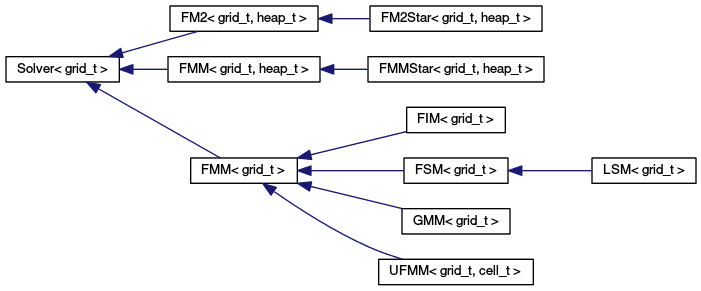
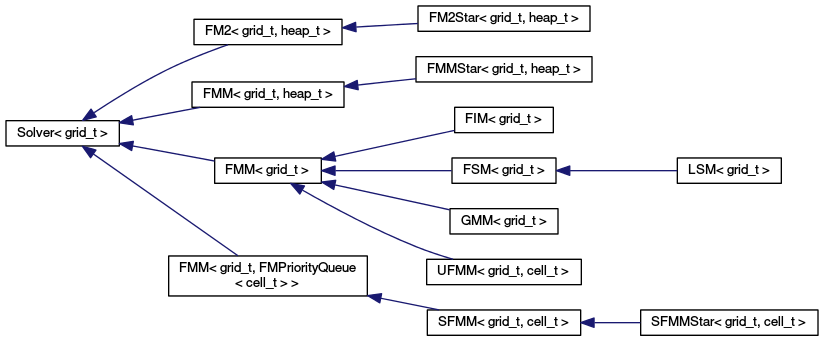
Some tweaks and creating SFMM class

diff --git a/benchmark/benchmarkcfg.hpp b/benchmark/benchmarkcfg.hpp
@@ -28,7 +28,9 @@
 #include "../io/maploader.hpp"
 
 #include "../fmm/fmm.hpp"
+#include "../fmm/sfmm.hpp"
 #include "../fmm/fmmstar.hpp"
+#include "../fmm/sfmmstar.hpp"
 #include "../fmm/fim.hpp"
 #include "../fmm/gmm.hpp"
 #include "../fmm/ufmm.hpp"
@@ -149,9 +151,9 @@ class BenchmarkCFG {
                     else if (name == "fmmfibstar")
                         solver = new FMMStar<grid_t,  FMFibHeap<cell_t> >("FMMFib*");
                     else if (name == "sfmm")
-                        solver = new FMM<grid_t, FMPriorityQueue<cell_t> >("SFMM");
+                        solver = new SFMM<grid_t>("SFMM");
                     else if (name == "sfmmstar")
-                        solver = new FMMStar<grid_t, FMPriorityQueue<cell_t>>("SFMM*");
+                        solver = new SFMMStar<grid_t>("SFMM*");
                     else if (name == "gmm")
                         solver = new GMM<grid_t>();
                     else if (name == "fim")
@@ -198,15 +200,15 @@ class BenchmarkCFG {
                     }
                     // SFMM and SFMM*
                     else if (name == "sfmm")
-                        solver = new FMM<grid_t, FMPriorityQueue<cell_t> >(ctorParams_[i].c_str());
+                        solver = new SFMM<grid_t, cell_t>(ctorParams_[i].c_str());
                     else if (name == "sfmmstar") {
                         if (p.size() == 1)
-                            solver = new FMMStar<grid_t, FMPriorityQueue<cell_t>>(p[0].c_str());
+                            solver = new SFMMStar<grid_t, cell_t>(p[0].c_str());
                         else if (p.size() == 2) {
                             if (p[1] == "TIME")
-                                solver = new FMMStar<grid_t, FMPriorityQueue<cell_t>>(p[0].c_str(), TIME);
+                                solver = new SFMMStar<grid_t, cell_t>(p[0].c_str(), TIME);
                             else if (p[1] == "DISTANCE")
-                                solver = new FMMStar<grid_t, FMPriorityQueue<cell_t>>(p[0].c_str(), DISTANCE);
+                                solver = new SFMMStar<grid_t, cell_t>(p[0].c_str(), DISTANCE);
                         }
                     }
                     // GMM

diff --git a/fmm/sfmm.hpp b/fmm/sfmm.hpp
@@ -1,0 +1,54 @@
+/*! \class SFMM
+    \brief Implements the Simplified Fast Marching Method, encapsulating FMM with a priority queue.
+
+    It uses as a main container the nDGridMap class. The nDGridMap type T
+    has to be an FMCell or something inherited from it.
+
+    The grid is assumed to be squared, that is Delta(x) = Delta(y) = leafsize_
+
+    @par External documentation:
+        SFMM:
+          M.W. Jones, J.A. Baerentzen, M. Sramek, 3D Distance Fields: A Survey of Techniques and Applications, IEEE Transactions on Visualization and Computer Graphics, Vol. 12, No. 4, 2006. DOI <a href=http://dx.doi.org/10.1109/TVCG.2006.56">110.1109/TVCG.2006.56</a><br>
+          <a href="http://ieeexplore.ieee.org/xpl/articleDetails.jsp?arnumber=1634323">[PDF]</a>
+
+    Copyright (C) 2014 Javier V. Gomez
+    www.javiervgomez.com
+
+    This program is free software: you can redistribute it and/or modify
+    it under the terms of the GNU General Public License as published by
+    the Free Software Foundation, either version 3 of the License, or
+    (at your option) any later version.
+    This program is distributed in the hope that it will be useful,
+    but WITHOUT ANY WARRANTY; without even the implied warranty of
+    MERCHANTABILITY or FITNESS FOR A PARTICULAR PURPOSE. See the
+    GNU General Public License for more details.
+    You should have received a copy of the GNU General Public License
+    along with this program. If not, see <http://www.gnu.org/licenses/>.
+*/
+
+#ifndef SFMM_HPP_
+#define SFMM_HPP_
+
+#include <iostream>
+#include <cmath>
+#include <algorithm>
+#include <numeric>
+#include <fstream>
+#include <array>
+
+#include "fmm.hpp"
+
+#include "fmdata/fmcell.h"
+#include "fmdata/fmpriorityqueue.hpp"
+
+template < class grid_t, class cell_t = FMCell>  class SFMM : public FMM<grid_t, FMPriorityQueue<cell_t>> {
+
+    /** \brief Shorthand for base solver. */
+    typedef FMM<grid_t, FMPriorityQueue<cell_t>> FMMBase;
+
+    public:
+        SFMM(HeurStrategy h = NOHEUR) : FMMBase("SFMM", h) {}
+        SFMM(const char * name, HeurStrategy h = NOHEUR) : FMMBase(name, h){}
+};
+
+#endif /* SFMM_HPP_*/

diff --git a/fmm/sfmmstar.hpp b/fmm/sfmmstar.hpp
@@ -1,0 +1,47 @@
+/*! \class SFMMStarStar
+    \brief Implements the Simplified Fast Marching Method, encapsulating FMM with a priority queue.
+
+    It uses as a main container the nDGridMap class. The nDGridMap type T
+    has to be an FMCell or something inherited from it.
+
+    The grid is assumed to be squared, that is Delta(x) = Delta(y) = leafsize_
+
+    @par External documentation:
+        SFMMStar:
+          M.W. Jones, J.A. Baerentzen, M. Sramek, 3D Distance Fields: A Survey of Techniques and Applications, IEEE Transactions on Visualization and Computer Graphics, Vol. 12, No. 4, 2006. DOI <a href=http://dx.doi.org/10.1109/TVCG.2006.56">110.1109/TVCG.2006.56</a><br>
+          <a href="http://ieeexplore.ieee.org/xpl/articleDetails.jsp?arnumber=1634323">[PDF]</a>
+
+    Copyright (C) 2014 Javier V. Gomez
+    www.javiervgomez.com
+
+    This program is free software: you can redistribute it and/or modify
+    it under the terms of the GNU General Public License as published by
+    the Free Software Foundation, either version 3 of the License, or
+    (at your option) any later version.
+    This program is distributed in the hope that it will be useful,
+    but WITHOUT ANY WARRANTY; without even the implied warranty of
+    MERCHANTABILITY or FITNESS FOR A PARTICULAR PURPOSE. See the
+    GNU General Public License for more details.
+    You should have received a copy of the GNU General Public License
+    along with this program. If not, see <http://www.gnu.org/licenses/>.
+*/
+
+#ifndef SFMMSTAR_HPP_
+#define SFMMSTAR_HPP_
+
+#include <iostream>
+#include <cmath>
+#include <algorithm>
+#include <numeric>
+#include <fstream>
+#include <array>
+
+#include "sfmm.hpp"
+
+template < class grid_t, class cell_t = FMCell>  class SFMMStar : public SFMM<grid_t, cell_t> {
+    public:
+        SFMMStar(HeurStrategy h = TIME) : SFMM<grid_t, cell_t>("SFMM*", h) {}
+        SFMMStar(const char * name, HeurStrategy h = TIME) : SFMM<grid_t, cell_t>(name, h){}
+};
+
+#endif /* SFMMSTAR_HPP_*/

diff --git a/examples/test_fmm.cpp b/examples/test_fmm.cpp
@@ -7,6 +7,8 @@
 #include "../ndgridmap/ndgridmap.hpp"
 
 #include "../fmm/fmm.hpp"
+#include "../fmm/sfmm.hpp"
+#include "../fmm/sfmmstar.hpp"
 #include "../fmm/fmmstar.hpp"
 #include "../fmm/fmdata/fmfibheap.hpp"
 #include "../fmm/fmdata/fmpriorityqueue.hpp"
@@ -40,9 +42,9 @@ int main()
     solvers.push_back(new FMM<FMGrid2D, FMFibHeap<FMCell> >("FMFib"));
     solvers.push_back(new FMMStar<FMGrid2D, FMFibHeap<FMCell> >("FMM*Fib"));
     solvers.push_back(new FMMStar<FMGrid2D, FMFibHeap<FMCell> >("FMM*Fib_Dist", DISTANCE));
-    solvers.push_back(new FMM<FMGrid2D, FMPriorityQueue<FMCell> >("SFMM"));
-    solvers.push_back(new FMMStar<FMGrid2D, FMPriorityQueue<FMCell> >("SFMM*"));
-    solvers.push_back(new FMMStar<FMGrid2D, FMPriorityQueue<FMCell> >("SFMM*_Dist", DISTANCE));
+    solvers.push_back(new SFMM<FMGrid2D>);
+    solvers.push_back(new SFMMStar<FMGrid2D>);
+    solvers.push_back(new SFMMStar<FMGrid2D>("SFMM*_Dist", DISTANCE));
     solvers.push_back(new GMM<FMGrid2D>);
     solvers.push_back(new FIM<FMGrid2D>);
     solvers.push_back(new UFMM<FMGrid2D>);
@@ -65,7 +67,7 @@ int main()
     // Showing different type conversions methodologies. Solver names could be compared
     // but it is less reliable since they are user-defined.
     // Direct cast
-    FMM<FMGrid2D>* FMMtest = dynamic_cast< FMM<FMGrid2D>* >(solvers[6]);
+    /*FMM<FMGrid2D>* FMMtest = dynamic_cast< FMM<FMGrid2D>* >(solvers[6]);
     if (FMMtest)
         std::cout << "Solver type SFMM" <<'\n';
     else
@@ -81,7 +83,7 @@ int main()
     // solvers[6]->setHeuristics(true) would not compile since there is not a Solver::setHeuristics
     solvers[6]->as< FMM<FMGrid2D, FMPriorityQueue<FMCell>> >()->setHeuristics(HeurStrategy::DISTANCE);
     std::cout << solvers[6]->as< FMM<FMGrid2D, FMPriorityQueue<FMCell>> >()->getHeuristics() << '\n';
-
+*/
     // Preventing memory leaks.
     for (auto & s : solvers)
         delete s;

diff --git a/examples/test_fmm_benchmark.cpp b/examples/test_fmm_benchmark.cpp
@@ -7,7 +7,9 @@
 #include "../ndgridmap/ndgridmap.hpp"
 
 #include "../fmm/fmm.hpp"
+#include "../fmm/sfmm.hpp"
 #include "../fmm/fmmstar.hpp"
+#include "../fmm/sfmmstar.hpp"
 #include "../fmm/fmdata/fmfibheap.hpp"
 #include "../fmm/fmdata/fmpriorityqueue.hpp"
 #include "../fmm/fim.hpp"
@@ -60,9 +62,9 @@ int main()
     benchmark.addSolver(new FMM<FMGrid2D, FMFibHeap<FMCell> >("FMFib"));
     benchmark.addSolver(new FMMStar<FMGrid2D, FMFibHeap<FMCell> >("FMM*Fib"));
     benchmark.addSolver(new FMMStar<FMGrid2D, FMFibHeap<FMCell> >("FMM*Fib_Dist", DISTANCE));
-    benchmark.addSolver(new FMM<FMGrid2D, FMPriorityQueue<FMCell> >("SFMM"));
-    benchmark.addSolver(new FMMStar<FMGrid2D, FMPriorityQueue<FMCell> >("SFMM*"));
-    benchmark.addSolver(new FMMStar<FMGrid2D, FMPriorityQueue<FMCell> >("SFMM*_Dist", DISTANCE));
+    benchmark.addSolver(new SFMM<FMGrid2D>);
+    benchmark.addSolver(new SFMMStar<FMGrid2D>);
+    benchmark.addSolver(new SFMMStar<FMGrid2D>("SFMM*_Dist", DISTANCE));
     benchmark.addSolver(new GMM<FMGrid2D>);
     benchmark.addSolver(new FIM<FMGrid2D>);
     benchmark.addSolver(new UFMM<FMGrid2D>);

diff --git a/fmm/lsm.hpp b/fmm/lsm.hpp
@@ -7,8 +7,9 @@
     The grid is assumed to be squared, that is Delta(x) = Delta(y) = leafsize_
 
     @par External documentation:
-        H. Zhao, A fast sweeping method for Eikonal equations, Math. Comp. 74 (2005), 603-627.
-        <a href="http://www.ams.org/journals/mcom/2005-74-250/S0025-5718-04-01678-3/S0025-5718-04-01678-3.pdf">[PDF]</a>
+        S. Bak, J. McLaughlin, D. Renzi, Some Improvements for the Fast Sweeping Method,
+        SIAM J. Sci. Comput., 32(5), 2853–2874.
+        <a href="http://epubs.siam.org/doi/abs/10.1137/090749645">[More Info]</a>
 
     NOTE: The sweeping directions are inverted with respect to the paper to make implementation easier. And sweeping
     is implemented recursively (undetermined number of nested for loops) to achieve n-dimensional behaviour.

diff --git a/fmm/fmm.hpp b/fmm/fmm.hpp
@@ -82,7 +82,7 @@ template < class grid_t, class heap_t = FMDaryHeap<FMCell> >  class FMM : public
             setHeuristics(heurStrategy_); // Redundant, but safe.
 
             if (int(goal_idx_) == -1 && heurStrategy_ != NOHEUR) {
-                console::warning("FMM: Heuristics set with no goal point. Deactivating heuristics.");
+                console::warning("FMM/SFMM: Heuristics set with no goal point. Deactivating heuristics.");
                 heurStrategy_ = NOHEUR;
             }
         }

diff --git a/README.md b/README.md
@@ -16,9 +16,10 @@ N-Dimensional Fast Marching Method V1.0
 
 ## ALGORITHMS
 **Fast Marching Methods:**
-- [FMM](http://javiervgomez.com/fastmarching/classFMM.html): Fast Marching Method with Binary Queue and Fibonacci Queue.
-- [SFMM](http://javiervgomez.com/fastmarching/classFMM.html): Simplified Fast Marhching Method ([FMM](http://javiervgomez.com/fastmarching/classFMM.html) with a simple priority queue).
-- [FMM*](http://javiervgomez.com/fastmarching/classFMMStar.html): FMM and SFMM with CostToGo heuristics.
+- [FMM](http://javiervgomez.com/fastmarching/classFMM.html): Fast Marching Method with Binary Queue and Fibonacci Queue (binary by default).
+- [FMM*](http://javiervgomez.com/fastmarching/classFMMStar.html): FMM with CostToGo heuristics.
+- [SFMM](http://javiervgomez.com/fastmarching/classSFMM.html): Simplified Fast Marhching Method.
+- [SFMM*](http://javiervgomez.com/fastmarching/classSFMMStar.html): SFMM with CostToGo heuristics..
 
 **O(n) Fast Marching Methods:**
 - [GMM]((http://javiervgomez.com/fastmarching/classGMM.html): Group Marching Method.
